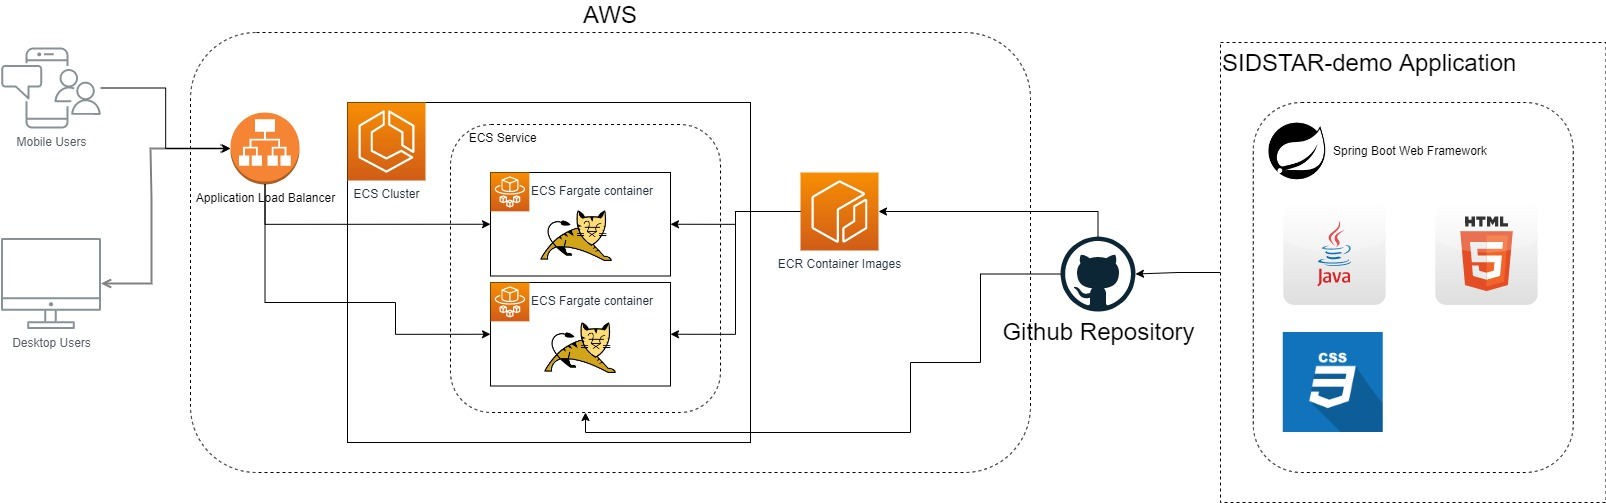
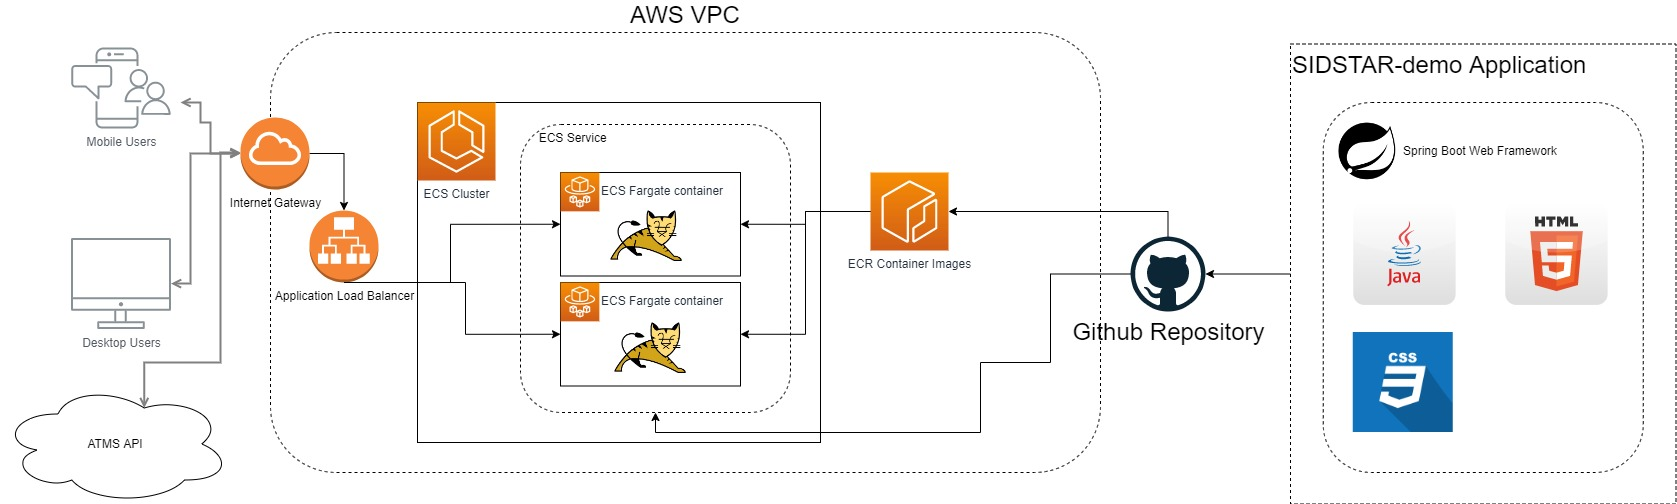
Added more info in README

diff --git a/README.md b/README.md
@@ -1,11 +1,13 @@
 # sidstar-demo
 This is a web application that is used to retrieve a list of airports from ATMS and also find waypoints that has the highest and second highest number of association with the SIDs/STARs of a particular aiport.
 
-It is built on JAVA with MAVEN, containerised in Docker and then hosted on AWS Elastic Container Service.
+The backend is built with JAVA with MAVEN, containerised in Docker and then hosted on AWS Elastic Container Service.
+
+The front end is built with HTML, CSS and JS. Although it is segregated from backend code, it is deployed in the same container for ease of development.
 
 ## Architecture
 
-
+![This is an image](assets/sidstardemo.jpg)
 
 ## Software and Account Requirements
 
@@ -14,14 +16,23 @@ It is built on JAVA with MAVEN, containerised in Docker and then hosted on AWS E
 3) GitHub account
 4) ATMS API (https://open-atms.airlab.aero/public-api/)
 
-## Setup Guide
+## Install and Setup Guide
+
+Steps:
+1) Download and install Intellij Community Edition
+2) Clone project from this repository
+3) Set up Github account
+4) Push project to your Github repository
+5) Set up AWS and the necessary Services
+6) Set up Github actions
+7) Deploy!!
 
 ### Download and install Intellij Community Edition
 You can download and install Intellij Community Edition from here
 
 https://www.jetbrains.com/idea/download/#section=windows
 
-### Pull from repository
+### Clone project from this repository
 All the resources and dependencies are included in this project, so all you have to do is ask Intellij to clone this project.
 
 Instructions can be found here:
@@ -34,30 +45,55 @@ Set up a github account and repository to host this project and enable the CI/CD
 2) After you log in, on the left plane, click "New"
 3) Key in your desired repository name, description, private or public setting and click "Create Repository".
 
-### Push project to your repository
-1) In intellij, under the VCS tab, click 
-2) Push this project to your repository
-
-![This is an image]{assets/sidstardemo.jpg}
-
-
+### Push project to your Github repository
+1) In intellij, under the VCS tab, click "Git" and then "Manage Remotes"
+2) 
+3)
 
 ### Set up AWS and the necessary Services
-To host this application on AWS, you need to create
-1) Elastic Repository
-   
-2) Elastic Container service
-   1) Cluster
-   2) Tasking Definition
-   3) Service
+For this project, the Github Action function to deploy this app to AWS is stored in:
 
-## Building the solution
+```code
+.github/maven-docker.aws.yml
+```
 
-### Framewokrs and API used
+Fill in the following environment variables in the file stated above:
+* AWS_REGION
+* ECR_REPOSITORY
+* ECS_SERVICE
+* ECS_CLUSTER
+* CONTAINER_NAME
+
+Also set your AWS Secrets for the user that you wish to use for deployment.
+
+Lastly set your task execution ARN in ```.aws/task_definition.json``` in the "executionRoleArn" variable.
+
+
+You can find more details in these guides below:
+
+Deployment from GitHub to ECS
+
+https://docs.github.com/en/actions/deployment/deploying-to-your-cloud-provider/deploying-to-amazon-elastic-container-service
+
+Task Execution IAM for ECS
+
+https://docs.aws.amazon.com/AmazonECS/latest/developerguide/task_execution_IAM_role.html
+
+## Solution Design
+
+### Frameworks, Libraries and API
+| Item              | Type          | Description                                                                                                                           |
+|:------------------|:--------------|:--------------------------------------------------------------------------------------------------------------------------------------|
+| Spring Boot MAVEN | Framework     | create stand-alone, production-grade Spring based Applications that you can "just run".                                               |
+| JSON.simple       | JAVA Library  | From https://mvnrepository.com/artifact/com.googlecode.json-simple/json-simple. Allows easy handling of JSON in JAVA.                 |
+| Datatables.js     | JS Library    | From https://datatables.net/. Add advanced interaction controls to my HTML tables.                                                    |
+| Bootstrap         | CSS Framework | CSS Framework for developing responsive and mobile-first websites.                                                                    |
+| JQUERY            | JS Library    | JavaScript library designed to simplify HTML DOM tree traversal and manipulation, as well as event handling, CSS animation, and Ajax. |
+| ATMS API          | RESTful API   | Provides simple and easy to use APIs to retrieve airport and standard instrument data                                                 |
 
 
 ### Building the backend
-The backend is built using JAVA with Spring Boot framework. It exposes two functions:
+The backend is built using JAVA with Spring Boot framework. It exposes two RESTFUL APIs:
 
 ```http
 POST /api/getAirports
@@ -79,7 +115,7 @@ POST /api/getTopTwoAssoWaypoints
 
 ### Backend Functions in detail
 
-**/getaiport**
+#### /api/getaiport
 This retrieves the list of airports from ATMS API and return the data in the following format:
 
 ```javascript
@@ -97,6 +133,29 @@ This retrieves the list of airports from ATMS API and return the data in the fol
 }
 ```
 
+#### /api/getTopTwoAssoWaypoints
+This RESTFUL api does the following:
+* Retrieves the list of SID/STARs pertaining to a particular airport 
+* Iterates through each SID/STAR and their waypoints to count the total associations of each waypoint using its name as a unique identifier
+* Find the top two number of counts
+* Return all waypoints that has the same value as either the top or second number of counts with the following format
+
+```javascript
+{
+ "topWaypoints" : [
+   [
+    {
+     "name":string,
+     "count":string,
+    },
+ ]
+}
+```
+
 ### Front end
+The front end is coded in HTML, CSS and JAVA. It uses JQUERY to do ajax requests to the backend APIs to retrieve the data for display.
+
+### Set up CI/CD Pipeline
+This project uses GitHub actions to create the CI/CD pipeline
 
 
